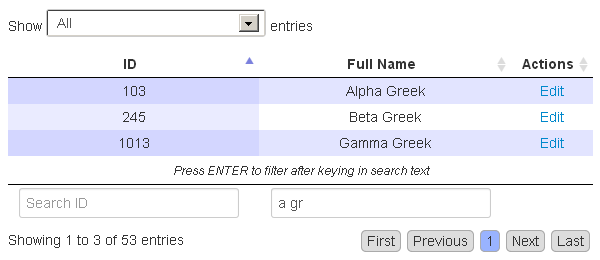
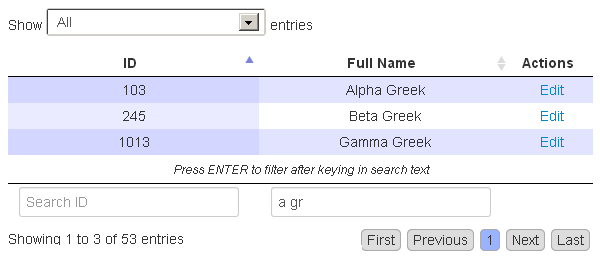
Make Actions column unsortable

diff --git a/examples/znZendDataTables.md b/examples/znZendDataTables.md
@@ -113,7 +113,12 @@ class IndexController extends AbstractActionController
               'aoColumnDefs': [
                   { 'aTargets': [0], 'sName': 'getId' }, // getter for Person to get value for 1st column
                   { 'aTargets': [1], 'sName': 'getFullName' },
-                  { 'aTargets': [2], 'sName': null, 'sDefaultContent': '<a href="" class="editrec">Edit</a>' },
+                  {
+                    'aTargets': [2],
+                    'sName': null,
+                    'sDefaultContent': '<a href="" class="editrec">Edit</a>',
+                    'bSortable': false
+                  },
               ],
               'fnRowCallback': function (nRow, aData, iDisplayIndex, iDisplayIndexFull) {
                   // Add "_record" attribute to td with Edit link
@@ -125,7 +130,7 @@ class IndexController extends AbstractActionController
                       event.preventDefault();
                       window.location = 'edit.php?id=' + $(this).parent().attr('_record');
                   });
-              }              
+              }
           });
 
           $('tfoot input').keyup(function (event) {
